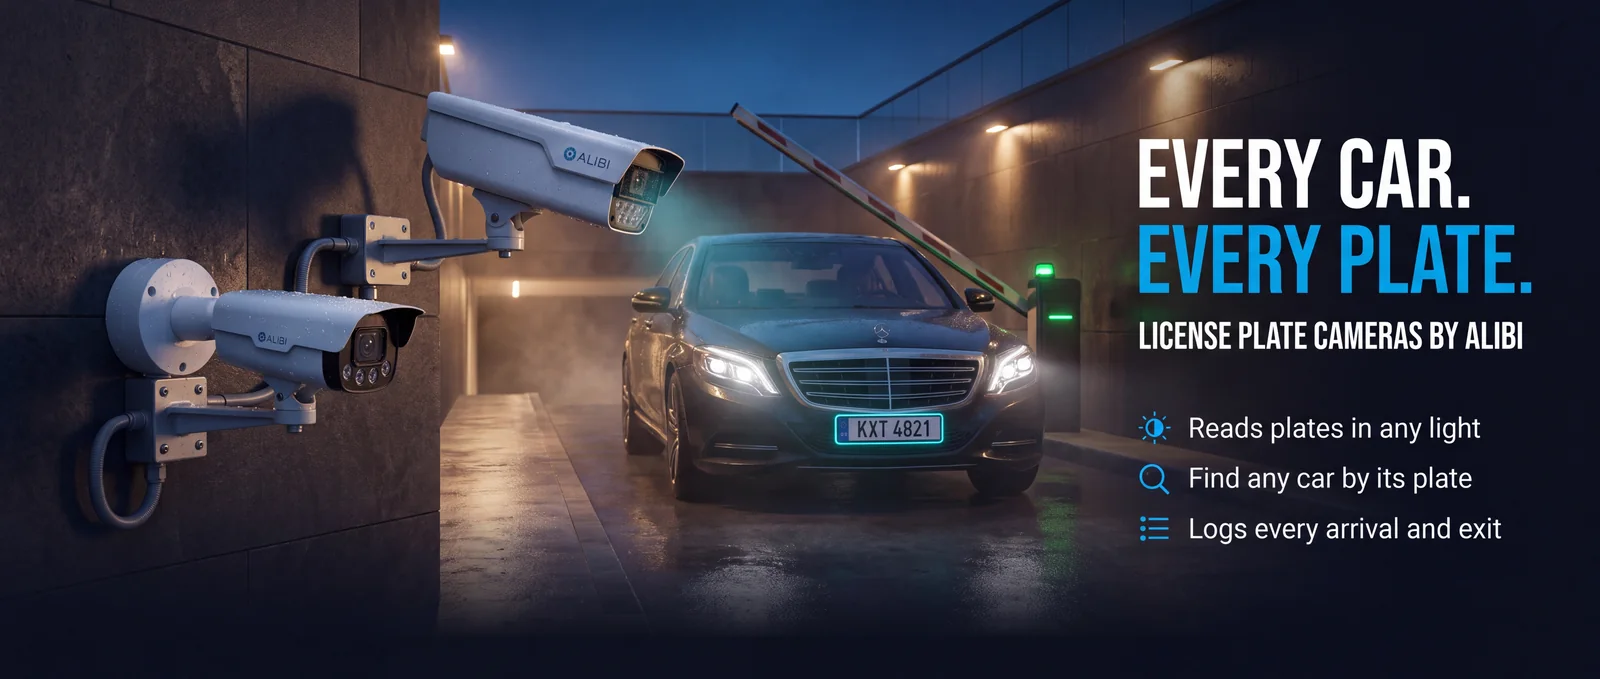
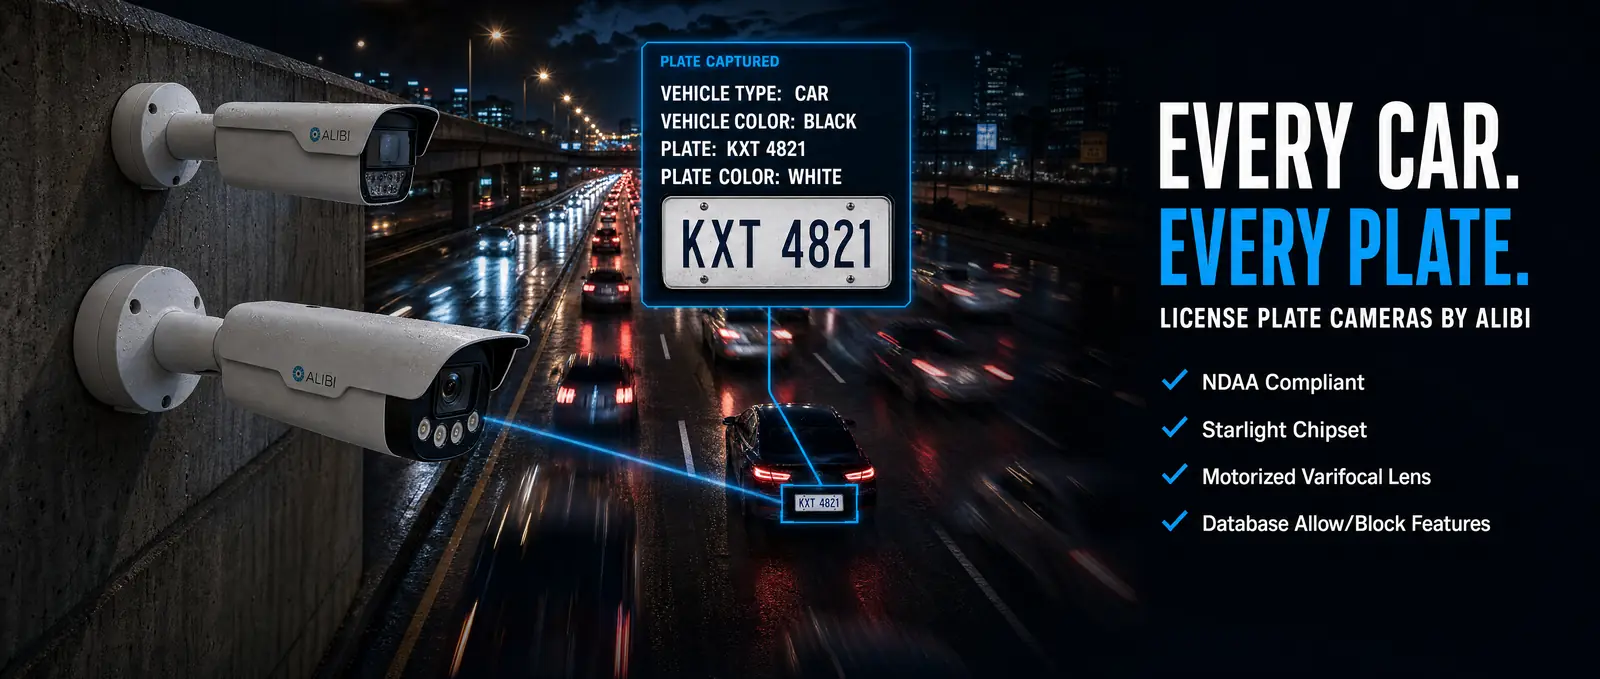
New license plate slide: highway overpass
Replaces the garage-gate plate slide with the owner's new banner: two Alibi
LPR cameras on an overpass catching one car's plate in heavy traffic, with a
plate-captured close-up and the four spec lines. Trimmed a few rows off the
calm bottom edge to match the other slides' shape; 1600w and 900w WebP under
100 KB. Alt text updated.

Claude-Session: https://claude.ai/code/session_01C2FVvFfA9ZBDyP7NBSA3SB

diff --git a/app/src/components/home/hero-slides.tsx b/app/src/components/home/hero-slides.tsx
@@ -44,7 +44,7 @@ const SLIDES: Slide[] = [
   },
   {
     name: "plate-recognition",
-    alt: "Two Alibi license plate cameras on a garage wall reading a car's plate as the gate opens. Every car. Every plate.",
+    alt: "Two Alibi license plate cameras on a highway overpass picking out one car's plate, KXT 4821, from heavy night traffic. Every car. Every plate. NDAA compliant, starlight chipset, motorized varifocal lens, database allow/block features.",
   },
 ];
 
